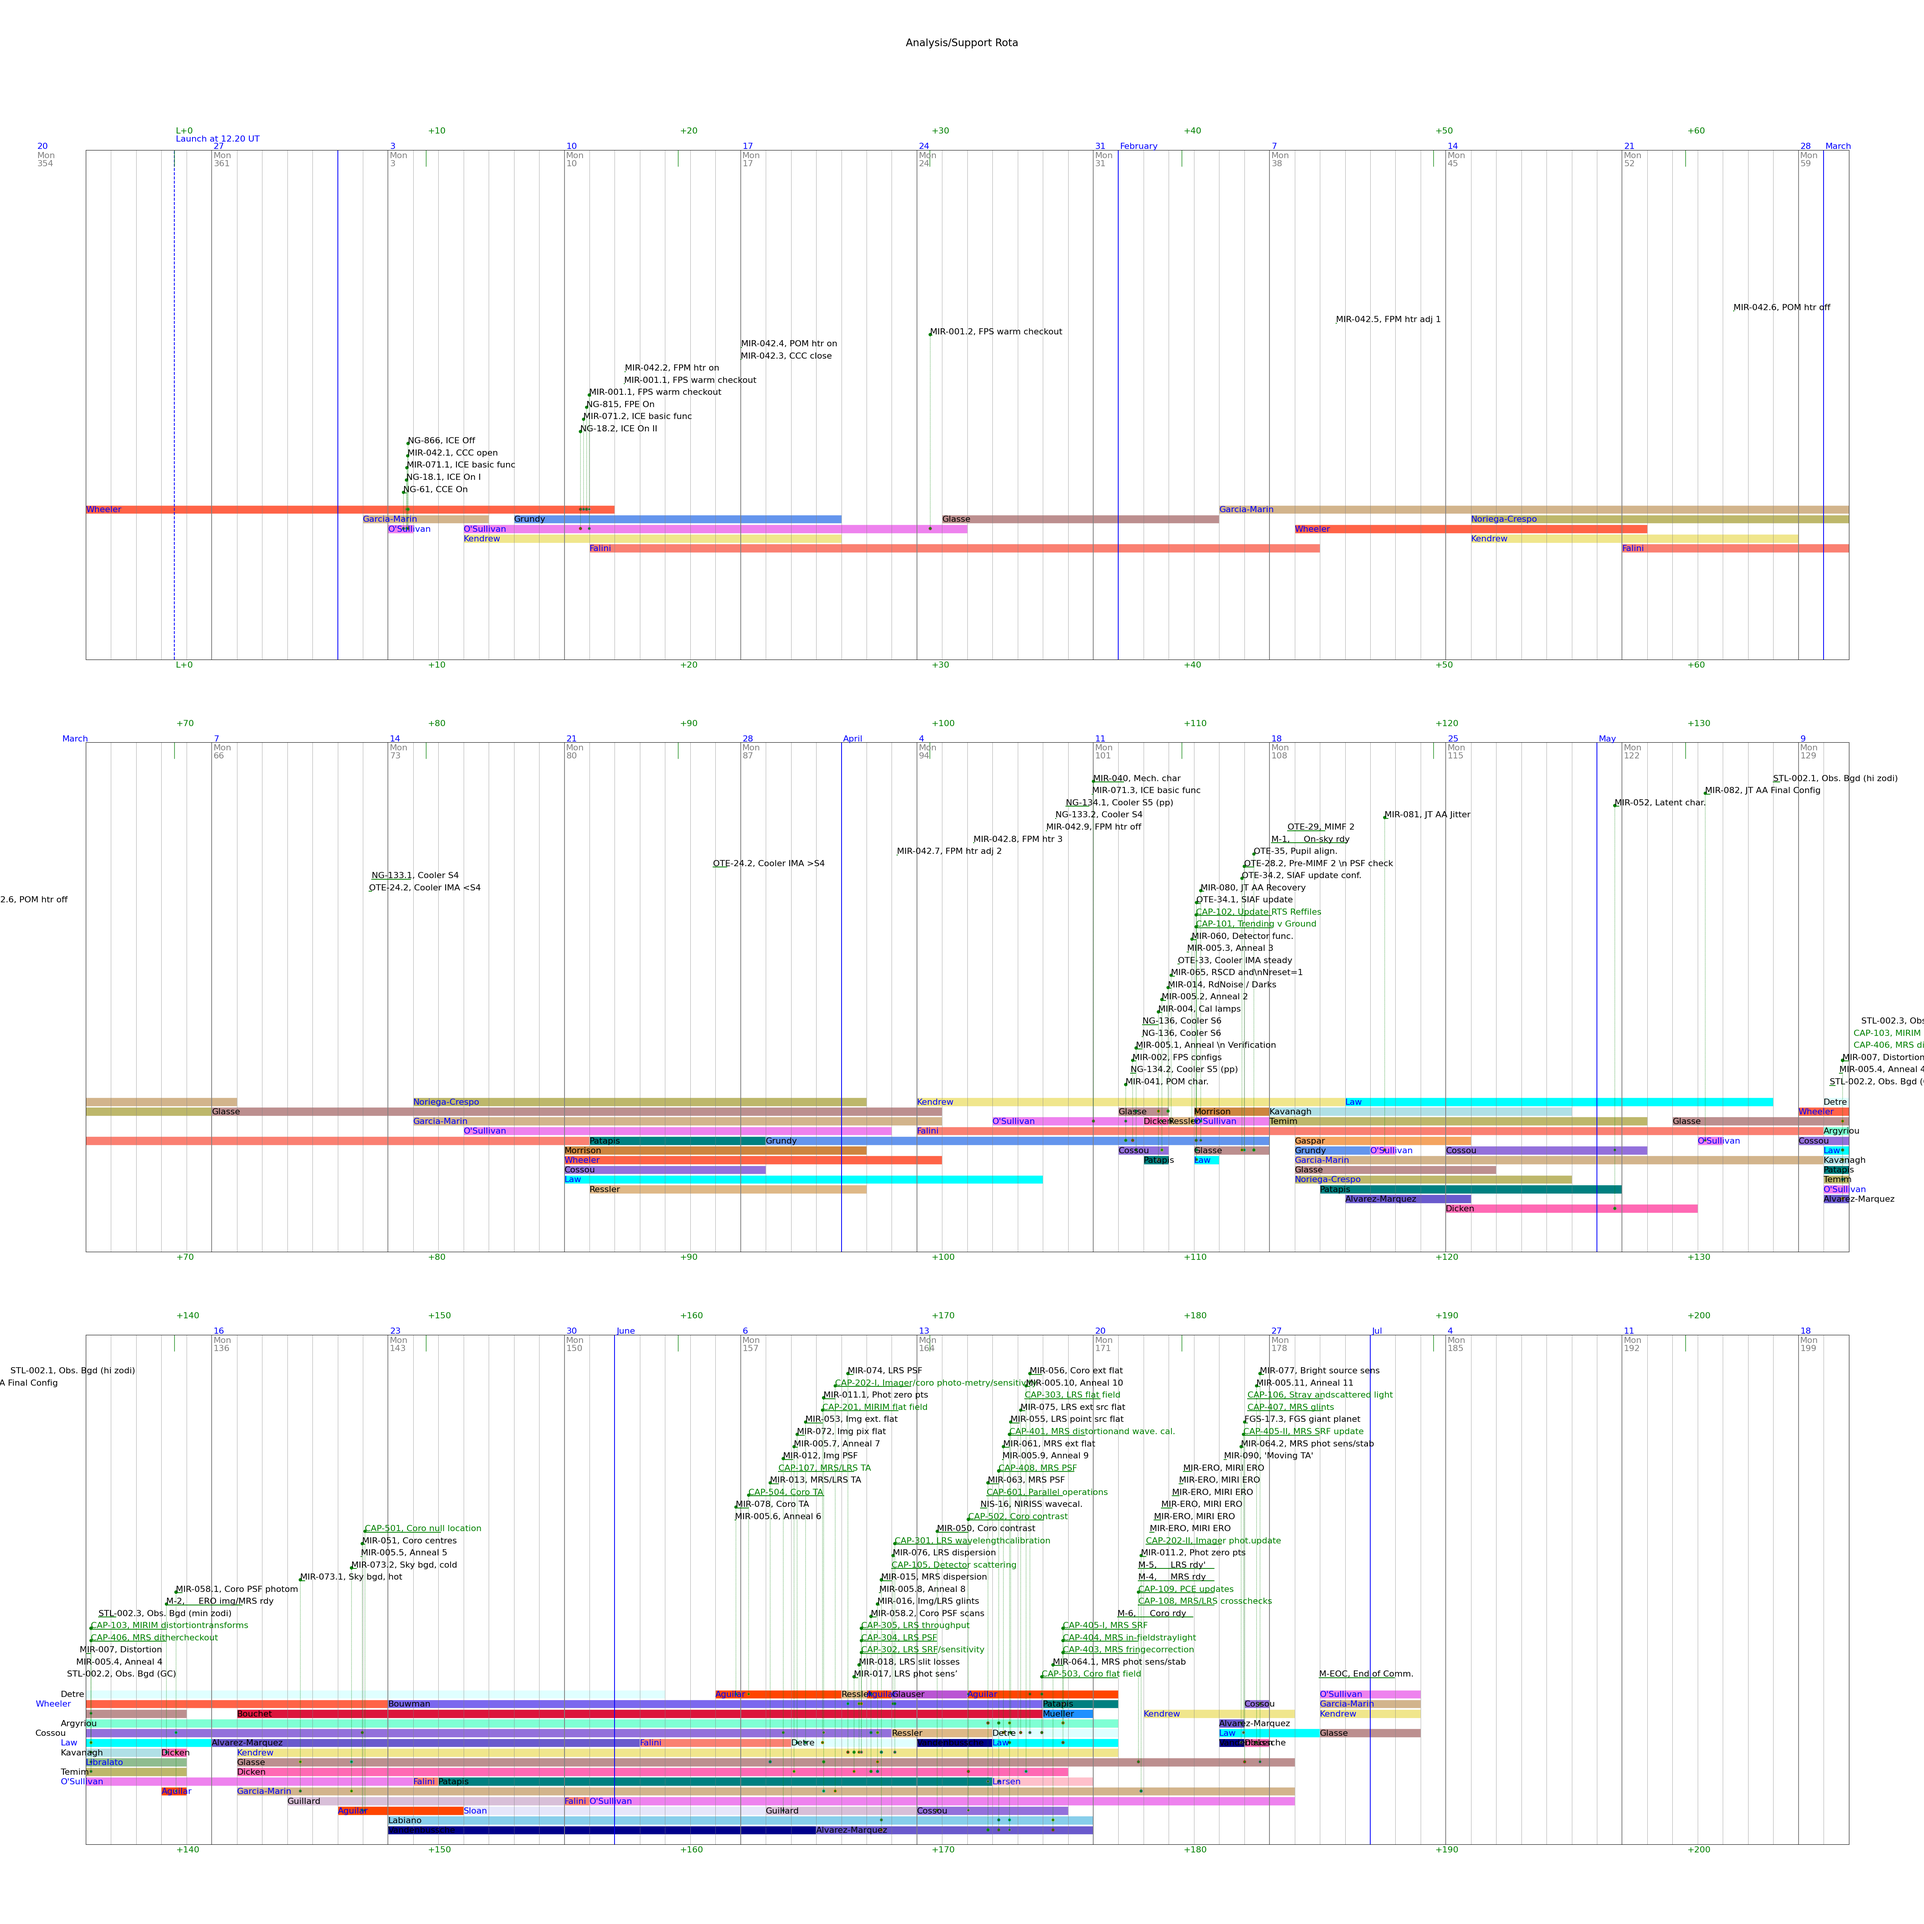
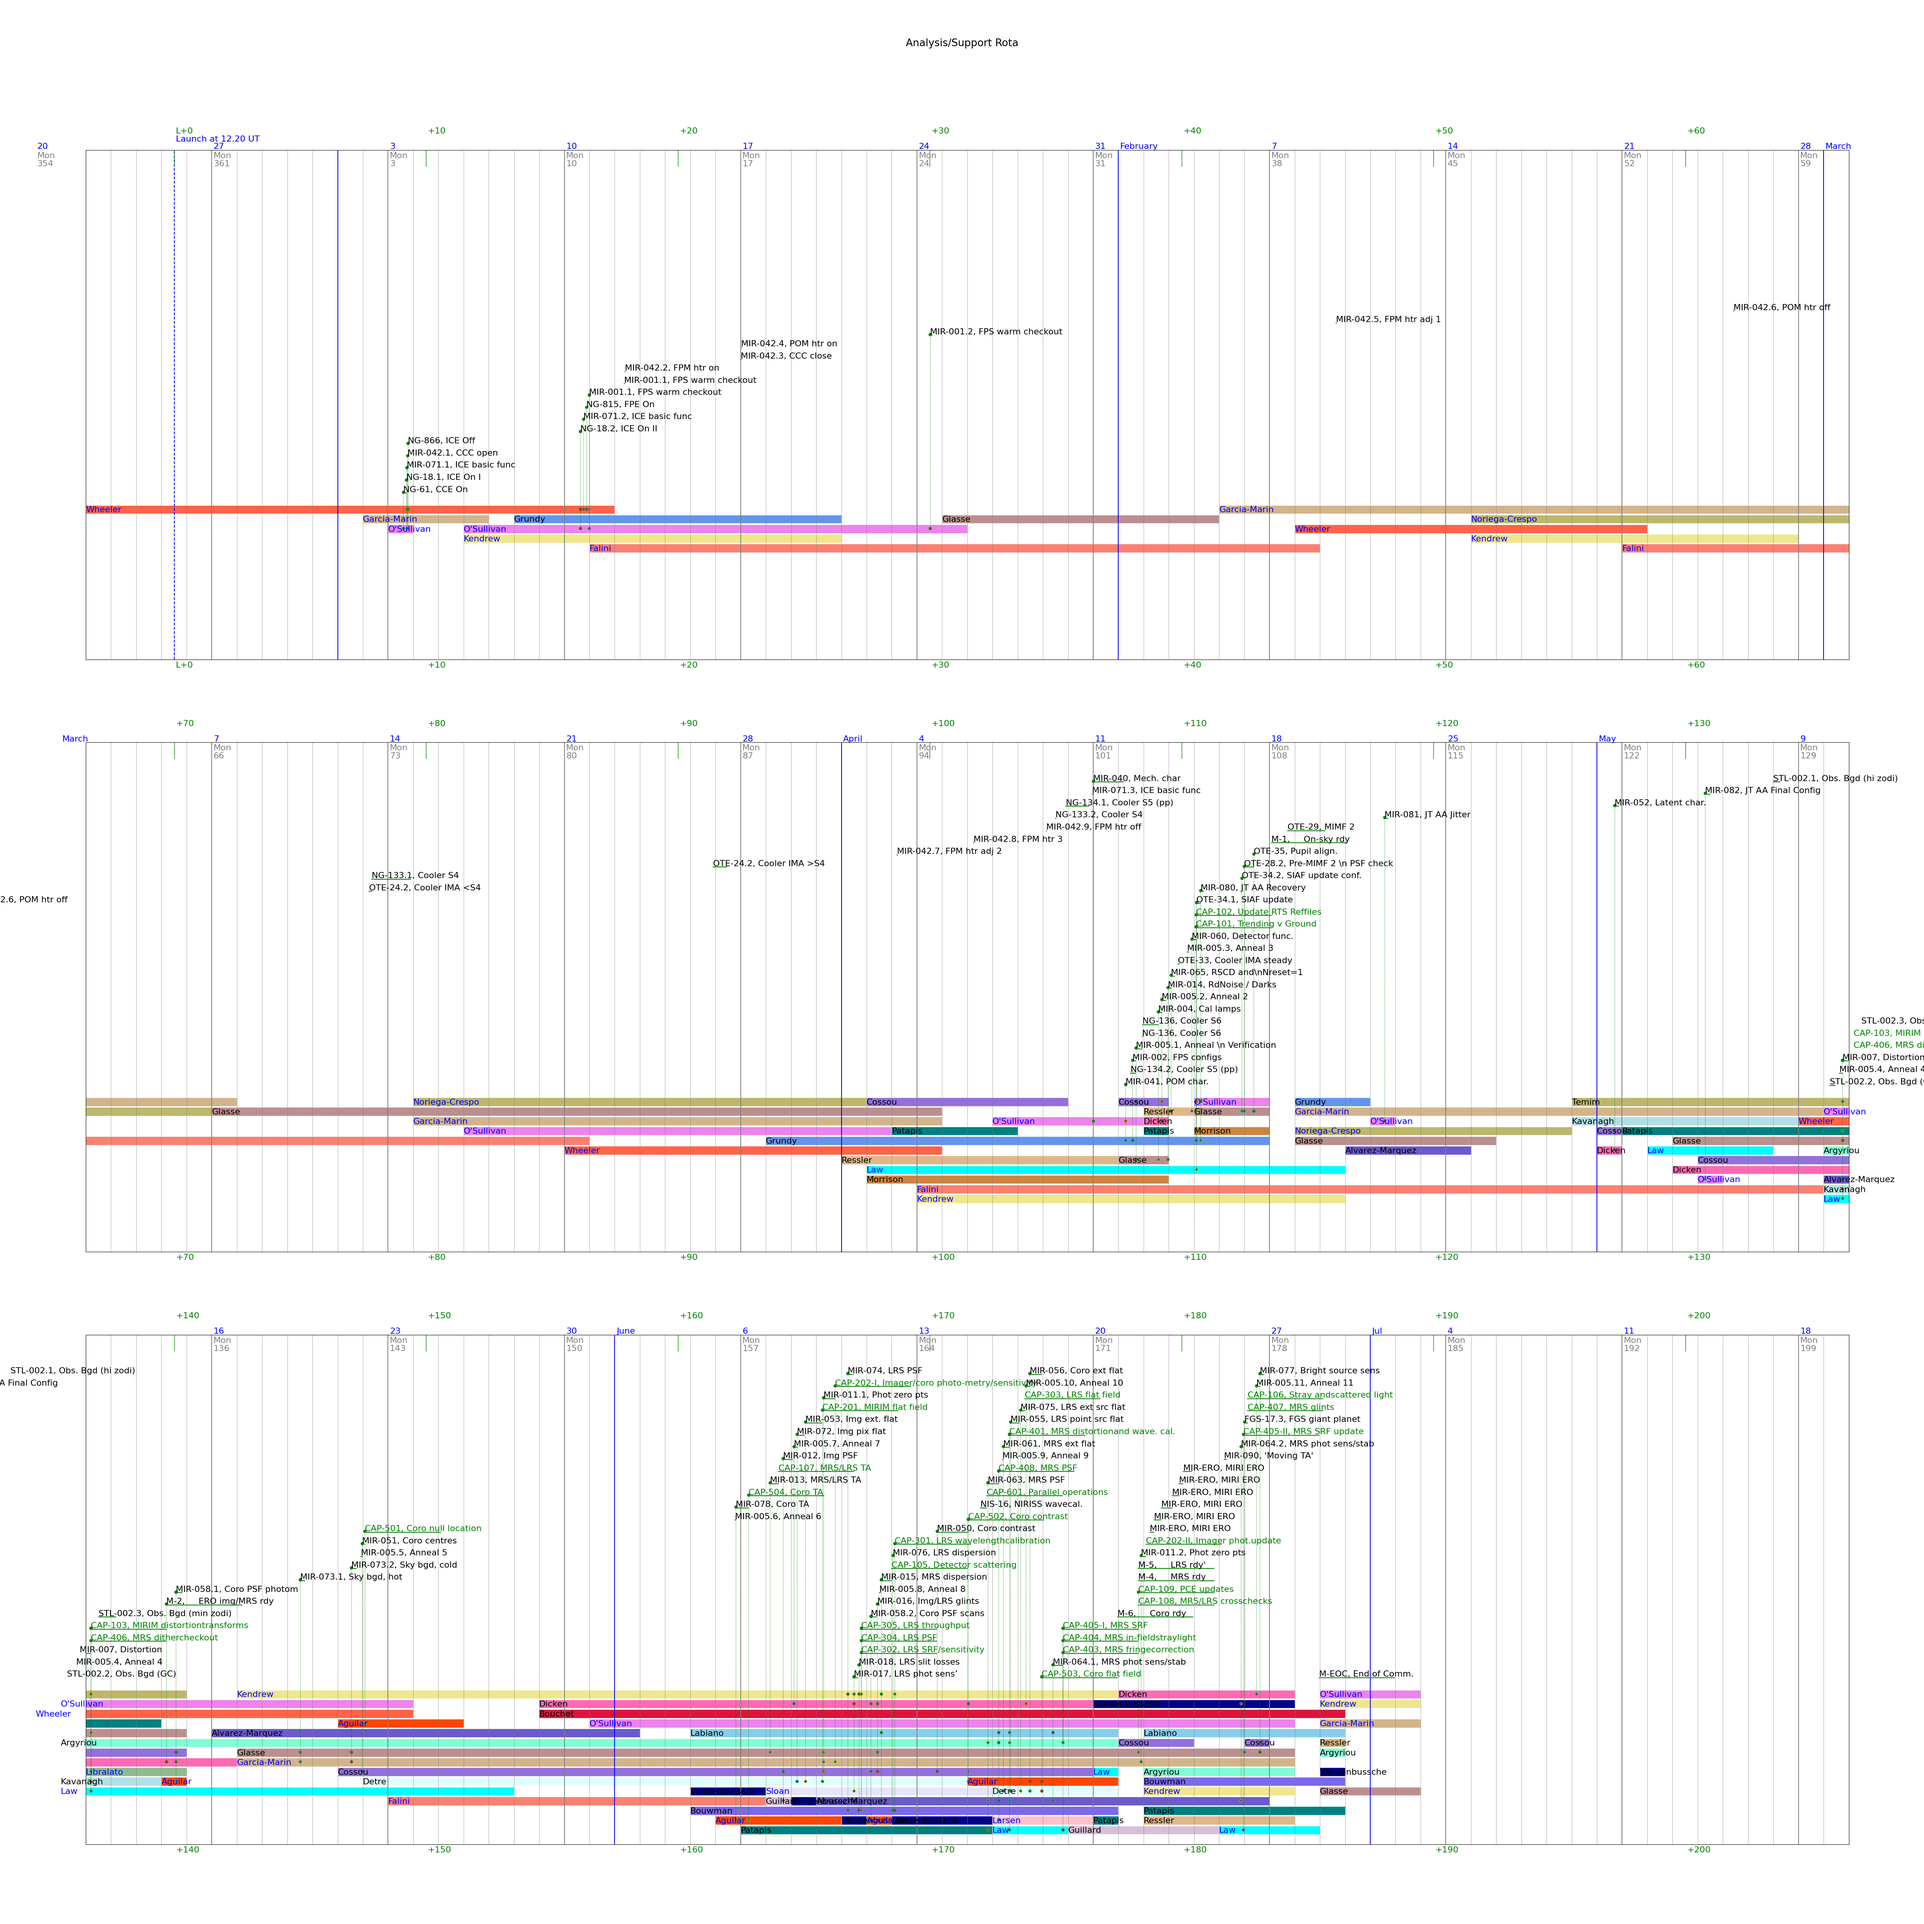
13/1/22 - Moved peak staffing periods later by 10 days to match peak CAR density.  Included grey out period in April for Jeroen.  Updated Yannis to arrive not before 26th March.

Changed region(s): [[0.0312, 0.8736, 0.7488, 0.9672], [0.2808, 0.5616, 0.9672, 0.6552]]

diff --git a/source/shift_plan.py b/source/shift_plan.py
@@ -114,6 +114,7 @@ class ShiftPlan:
                     row += 1
                 else:
                     initial, forename, surname, email, organisation = (token.strip() for token in tokens[0:5])
+                    print("Reading scheding info for {:s}".format(surname))
                     colour = tokens[5]
                     ident = initial, forename, surname, email, organisation, colour
                     max_nweeks, max_nweeks_block  = (int(token.strip()) for token in tokens[6:8])

diff --git a/source/timeliner.py b/source/timeliner.py
@@ -40,7 +40,7 @@ KdpUtils.schedule_kdps()
 kdps = KdpUtils.kdps
 
 print()
-dataflow = True        # True = Replot dataflow diagrams
+dataflow = False        # True = Replot dataflow diagrams
 if dataflow:
     dataflow = DataFlow()
     dc_keys = DataFlow.col_dict.keys()
